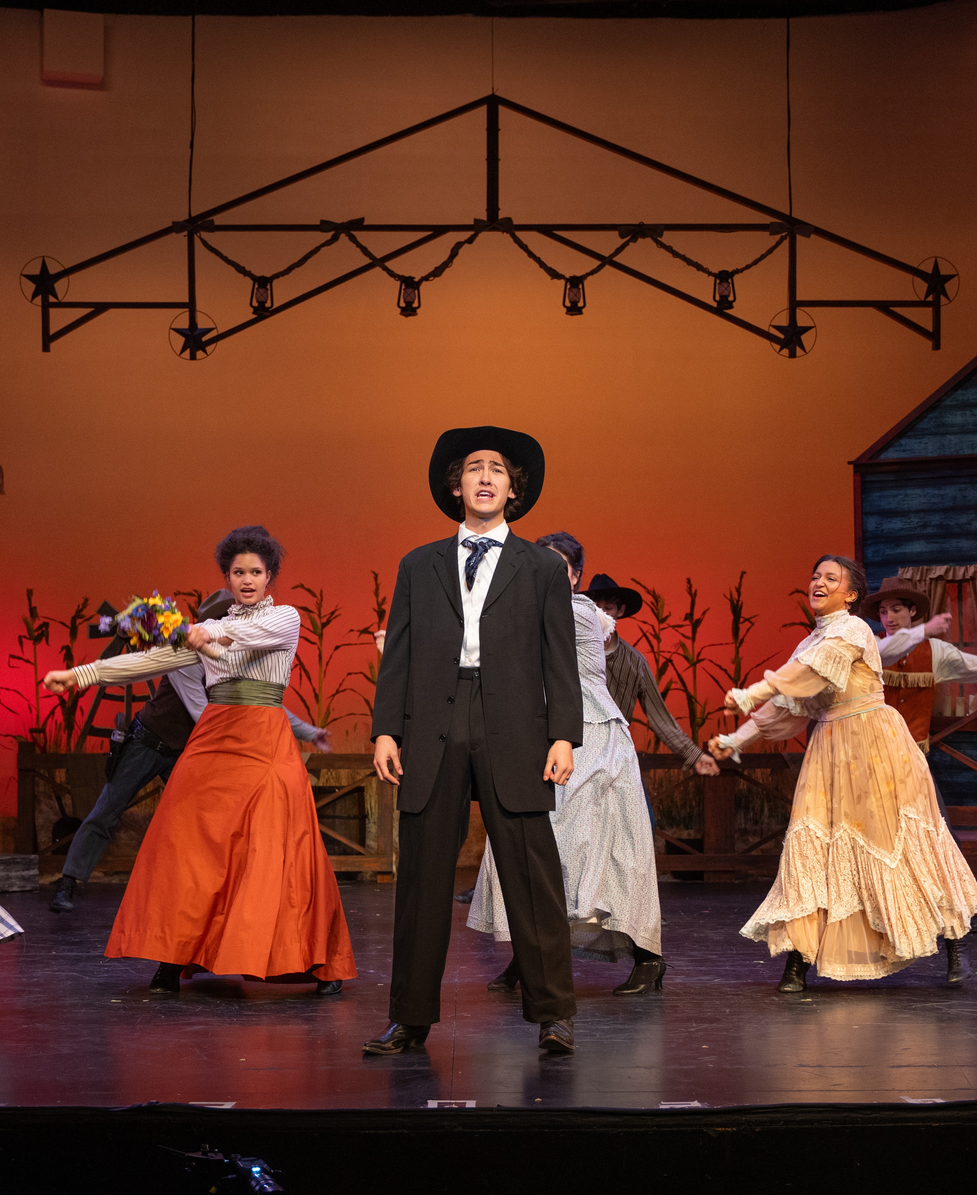
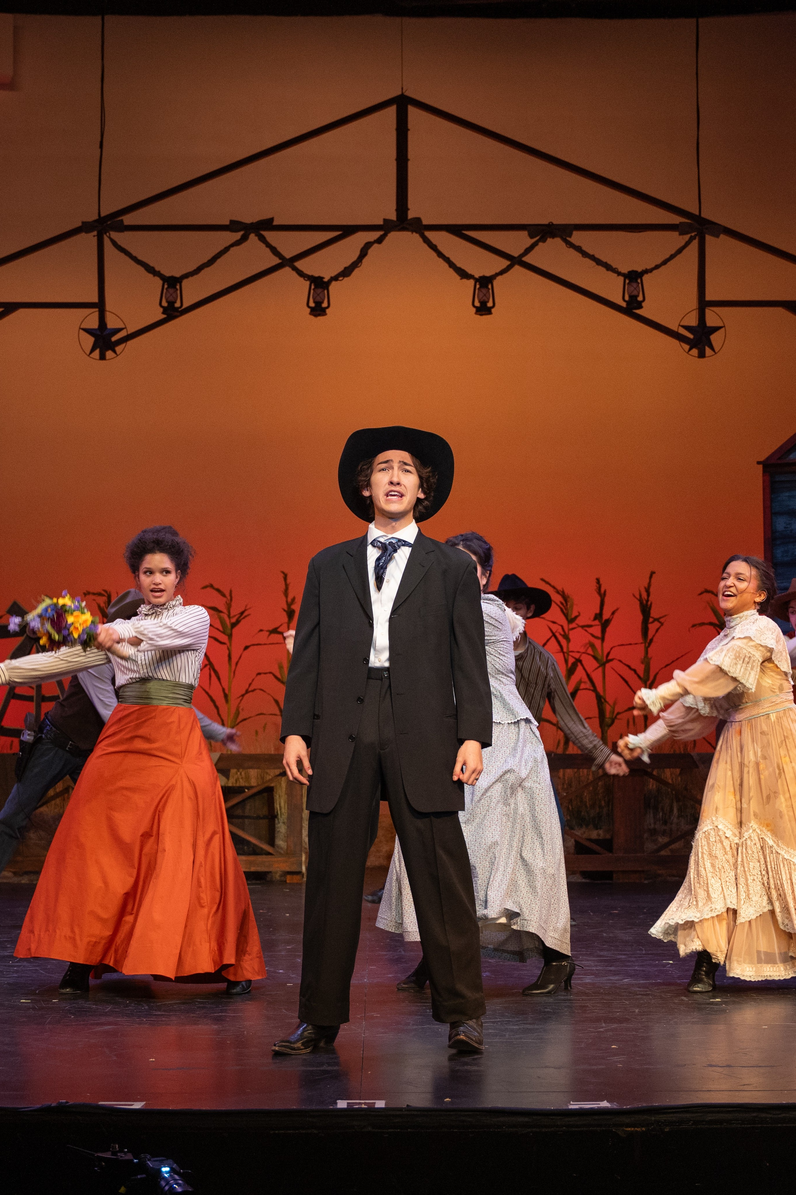
idk

diff --git a/index.html b/index.html
@@ -64,7 +64,7 @@
                         
                         <li><a href="#about" class="smoothscroll">About</a></li>
                         <li><a href="#works" class="smoothscroll">Gallery</a></li>
-                        <li><a href="#colophon" class="smoothscroll">Resume</a></li>
+                        <li><a href="#colophon" class="smoothscroll">Resume/Contact</a></li>
                     </ul>
                 </nav> <!-- end s-header__nav -->
 
@@ -104,7 +104,7 @@
     
                         <p class="attention-getter animate-on-load">
                              </p>
-                           <p>Hello! Nice to meet you, I'm Sean. I am a Singer, Actor, Dancer, Musician and proud Japanese-American, Southern California native. When I was a little kid, I was always mesmerized with entertainment. I would constantly watch our family's discs of classics like The Producers, Aladdin, and Spiderman (Toby Mclllguire version of course). Not only would my eyes glow for movies, but I found incredible excitement in watching live theater. Wicked, Matilda, and Miss Saigon are just a few of the many shows that made me fall in love with Theater- and decide to pursue it professionally. Some of my favorite hobbies are Basketball, Hiking, and Board Games! 
+                           <p>Hello! Nice to meet you, I'm Sean. I am a Singer, Actor, Dancer, Musician and proud Japanese-American, Southern California native. When I was a little kid, I was always mesmerized with entertainment. I would constantly watch our family's discs of classics like The Producers, Aladdin, and Spiderman (Toby Mcguire version of course). My early love for movies, quickly translated to an enamorment with live performance. Wicked, Matilda, and Miss Saigon are just a few of the many shows that made me fall in love with theatre- and decide to pursue it professionally. Storytelling is one of the most ancient, sacred, and powerful practices of humanity. I am so lucky that I get to create art. Some of my favorite hobbies are Basketball, Hiking, and Board Games! 
                              </p>
                 </div>
 
@@ -145,12 +145,10 @@
 
             <div class="row">
                 <div class="column lg-12">
-                    <center><h2 class="text-pretitle">Headshots and Performance Photos</h2></center>
-
-
                    <center> <p class="text-huge-title">
                     Gallery
-                    </p></center></div>
+                    </p><h2 class="text-pretitle">Photos, Reels</h2></center></div>
+                   
                 </div>
             </div>
 
@@ -219,7 +217,7 @@
                 <div class="column" data-animate-el>
                     <div class="folio-item">
                         <div class="folio-item__thumb">
-                            <a class="folio-item__thumb-link" href="images/portfolio/gallery/g-tulips.jpg" title="Caffein & Tulips" data-size="5504x8256">
+                            <a class="folio-item__thumb-link" href="images/portfolio/gallery/g-tulips.jpg" title="Caffein & Tulips" data-size="5504x8184">
                                 <img src="images/portfolio/tulips.jpg" 
                                      srcset="images/portfolio/tulips.jpg 1x, images/portfolio/tulips.jpg 2x" alt="5504x8184">
                             </a>
@@ -241,13 +239,6 @@
              
         <!-- # site footer
         ================================================== -->
-        <footer id="colophon" class="s-footer">
-
-            <div class="row s-footer__contact-header">
-                <div class="column lg-12">
-                </div>
-            </div> <!-- end s-footer__content -->
-
             <div class="row s-footer__contact-content">
                 <p class="text-huge-title">
                     Reach out/download resume below! 
